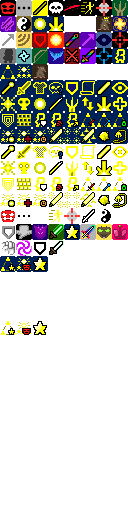
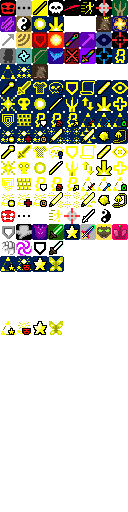
2.3: implemented ars retractandi, a spell that changes a talent into random talent of same aspect

Changed region(s): [[0.375, 0.625, 0.5, 0.6562], [0.375, 0.5, 0.5, 0.5312]]

diff --git a/core/src/main/java/com/zrp200/rkpd2/actors/hero/spells/ArsRetractandi.java b/core/src/main/java/com/zrp200/rkpd2/actors/hero/spells/ArsRetractandi.java
@@ -1,0 +1,233 @@
+package com.zrp200.rkpd2.actors.hero.spells;
+
+import com.zrp200.rkpd2.Assets;
+import com.zrp200.rkpd2.Dungeon;
+import com.zrp200.rkpd2.actors.hero.Hero;
+import com.zrp200.rkpd2.actors.hero.Talent;
+import com.zrp200.rkpd2.effects.Flare;
+import com.zrp200.rkpd2.effects.Speck;
+import com.zrp200.rkpd2.effects.Transmuting;
+import com.zrp200.rkpd2.items.artifacts.HolyTome;
+import com.zrp200.rkpd2.messages.Messages;
+import com.zrp200.rkpd2.scenes.GameScene;
+import com.zrp200.rkpd2.scenes.PixelScene;
+import com.zrp200.rkpd2.ui.HeroIcon;
+import com.zrp200.rkpd2.ui.RenderedTextBlock;
+import com.zrp200.rkpd2.ui.TalentButton;
+import com.zrp200.rkpd2.ui.TalentsPane;
+import com.zrp200.rkpd2.ui.Window;
+import com.zrp200.rkpd2.utils.GLog;
+import com.zrp200.rkpd2.windows.IconTitle;
+import com.zrp200.rkpd2.windows.WndOptions;
+import com.watabou.noosa.audio.Sample;
+import com.watabou.utils.Random;
+
+import java.util.ArrayList;
+import java.util.LinkedHashMap;
+import java.util.Map;
+import java.util.TreeMap;
+
+import static com.zrp200.rkpd2.actors.hero.Talent.*;
+
+public class ArsRetractandi extends ClericSpell {
+    public static final ArsRetractandi INSTANCE = new ArsRetractandi();
+
+    @Override
+    public int icon() {
+        return HeroIcon.ARS_RETRACTANDI;
+    }
+
+    @Override
+    public void tintIcon(HeroIcon icon) {
+        // todo make icon
+        if (SpellEmpower.isActive()) icon.tint(0, .33f);
+    }
+
+    @Override
+    public float chargeUse(Hero hero) {
+        int base = 5 - hero.pointsInTalent(Talent.ARS_RETRACTANDI);
+        if (SpellEmpower.isActive())
+            base *= 2;
+        return base;
+    }
+
+    @Override
+    public boolean canCast(Hero hero) {
+        return super.canCast(hero) && hero.shiftedPoints(Talent.ARS_RETRACTANDI) > (SpellEmpower.isActive() ? 0 : 1);
+    }
+
+    @Override
+    public void onCast(HolyTome tome, Hero hero) {
+        if (SpellEmpower.isActive()){
+            GameScene.show(new WndOptions(
+                    new HeroIcon(this),
+                    Messages.titleCase(name()),
+                    Messages.get(ArsRetractandi.class, "select_tier"),
+                    Messages.titleCase(Messages.get(TalentsPane.class, "tier", 1)),
+                    Messages.titleCase(Messages.get(TalentsPane.class, "tier", 2)),
+                    Messages.titleCase(Messages.get(TalentsPane.class, "tier", 3))
+            ){
+                @Override
+                protected void onSelect(int index) {
+                    super.onSelect(index);
+                    Aspect mostCommonAspect;
+
+                    if (index != -1){
+                        hero.spend(1f);
+                        hero.busy();
+                        hero.sprite.operate(hero.pos);
+                        TreeMap<Aspect, Integer> existingAspects = new TreeMap<>();
+                        LinkedHashMap<Talent, Integer> decidedTier = Dungeon.hero.talents.get(index);
+
+                        for (Map.Entry<Talent, Integer> talentData : decidedTier.entrySet()){
+                            existingAspects.put(talentData.getKey().aspect,
+                                    !existingAspects.containsKey(talentData.getKey().aspect) ?
+                                            1 : existingAspects.get(talentData.getKey().aspect) + 1);
+                        }
+                        mostCommonAspect = existingAspects.lastEntry().getKey();
+                        LinkedHashMap<Talent, Integer> newTier = new LinkedHashMap<>();
+                        for (Map.Entry<Talent, Integer> talentData : decidedTier.entrySet()){
+                            Talent newTalent;
+                            Talent oldTalent = talentData.getKey();
+                            while (true){
+                                Talent testTalent = Random.element(Talent.values());
+                                if (decidedTier.containsKey(testTalent))
+                                    continue;
+                                if (newTier.containsKey(testTalent))
+                                    continue;
+                                if (testTalent.aspect != mostCommonAspect)
+                                    continue;
+                                if (testTalent.maxPoints() == 3 && Random.Int(3) != 0)
+                                    continue;
+                                if (testTalent.maxPoints() == 4 && Random.Int(5) != 0)
+                                    continue;
+                                newTalent = testTalent;
+                                break;
+                            }
+                            newTier.put(newTalent, Math.min(newTalent.maxPoints(), talentData.getValue()));
+                            if (!hero.metamorphedTalents.containsValue(oldTalent)){
+                                hero.metamorphedTalents.put(oldTalent, newTalent);
+
+                                //if what we're replacing is already a value, we need to simplify the data structure
+                            } else {
+                                //a->b->a, we can just remove the entry entirely
+                                if (hero.metamorphedTalents.get(newTalent) == oldTalent){
+                                    hero.metamorphedTalents.remove(newTalent);
+
+                                    //a->b->c, we need to simplify to a->c
+                                } else {
+                                    for (Talent t2 : hero.metamorphedTalents.keySet()){
+                                        if (hero.metamorphedTalents.get(t2) == oldTalent){
+                                            hero.metamorphedTalents.put(t2, newTalent);
+                                        }
+                                    }
+                                }
+                            }
+                        }
+                        hero.talents.set(index, newTier);
+
+                        onSpellCast(tome, hero);
+
+                        Sample.INSTANCE.play( Assets.Sounds.READ );
+                        for (int i = 0; i < Dungeon.hero.talents.get(index).size(); i++){
+                            Sample.INSTANCE.playDelayed(Assets.Sounds.LEVELUP, 0.1f + i * 0.1f, 0.7f, 1.2f);
+                        }
+                        new Flare( 6, 32 ).color(0xFFFF00, true).show( hero.sprite, 2f );
+                        hero.sprite.emitter().start(Speck.factory(Speck.CHANGE), 0.1f, 25);
+                        GLog.p(Messages.get(ArsRetractandi.class, "transmutation_complete", mostCommonAspect));
+                    }
+                }
+            });
+        } else {
+            GameScene.show(new WndChoose());
+        }
+    }
+
+    public static void onChange( Talent oldTalent, Talent newTalent ){
+        Dungeon.hero.sprite.emitter().start(Speck.factory(Speck.CHANGE), 0.2f, 10);
+        Transmuting.show(Dungeon.hero, oldTalent, newTalent);
+
+        if (Dungeon.hero.hasTalent(newTalent)) {
+            Talent.onTalentUpgraded(Dungeon.hero, newTalent);
+        }
+
+        Dungeon.hero.spend(1f);
+        Dungeon.hero.busy();
+        Dungeon.hero.sprite.operate(Dungeon.hero.pos);
+
+        INSTANCE.onSpellCast(Dungeon.hero.belongings.getItem(HolyTome.class), Dungeon.hero);
+    }
+
+    public static class WndChoose extends Window {
+
+        public static WndChoose INSTANCE;
+
+        TalentsPane pane;
+
+        public WndChoose(){
+            super();
+
+            INSTANCE = this;
+
+            float top = 0;
+
+            IconTitle title = new IconTitle(new HeroIcon(ArsRetractandi.INSTANCE), Messages.titleCase(Messages.get(ArsRetractandi.class, "name")));
+            title.color( TITLE_COLOR );
+            title.setRect(0, 0, 120, 0);
+            add(title);
+
+            top = title.bottom() + 2;
+
+            RenderedTextBlock text = PixelScene.renderTextBlock(Messages.get(ArsRetractandi.class, "choose_desc"), 6);
+            text.maxWidth(120);
+            text.setPos(0, top);
+            add(text);
+
+            top = text.bottom() + 2;
+
+            ArrayList<LinkedHashMap<Talent, Integer>> talents = new ArrayList<>();
+            initClassTalents(Dungeon.hero.heroClass, talents, Dungeon.hero.metamorphedTalents);
+
+            for (LinkedHashMap<Talent, Integer> tier : talents){
+                for (Talent talent : tier.keySet()){
+                    tier.put(talent, Dungeon.hero.pointsInTalent(talent));
+                }
+            }
+
+            for (int i = 0; i < talents.size(); i++){
+                LinkedHashMap<Talent, Integer> heroTalents = Dungeon.hero.talents.get(i);
+                LinkedHashMap<Talent, Integer> lolTalents = talents.get(i);
+                for (Talent talent : heroTalents.keySet()){
+                    if (!lolTalents.containsKey(talent)){
+                        if ((i == 3 &&
+                                !(talent == HEROIC_RATINESS || talent == HEROIC_ARCHERY ||
+                                        talent == HEROIC_ENDURANCE || talent == HEROIC_STAMINA || talent == HEROIC_WIZARDRY))){
+                            continue;
+                        }
+                        if (i == 2) continue;
+                        lolTalents.put(talent, Dungeon.hero.pointsInTalent(talent));
+                    }
+                }
+            }
+
+            pane = new TalentsPane(TalentButton.Mode.ASPECT_REROLL, talents);
+            add(pane);
+            pane.setPos(0, top);
+            pane.setSize(120, pane.content().height());
+            resize((int)pane.width(), (int)pane.bottom());
+            pane.setPos(0, top);
+        }
+
+        @Override
+        public void hide() {
+            super.hide();
+            INSTANCE = null;
+        }
+
+        @Override
+        public void offset(int xOffset, int yOffset) {
+            super.offset(xOffset, yOffset);
+            pane.setPos(pane.left(), pane.top()); //triggers layout
+        }
+    }
+}

diff --git a/core/src/main/java/com/zrp200/rkpd2/ui/TalentButton.java b/core/src/main/java/com/zrp200/rkpd2/ui/TalentButton.java
@@ -27,6 +27,7 @@ import com.zrp200.rkpd2.ShatteredPixelDungeon;
 import com.zrp200.rkpd2.actors.hero.HeroSubClass;
 import com.zrp200.rkpd2.actors.hero.Talent;
 import com.zrp200.rkpd2.actors.hero.abilities.cleric.Trinity;
+import com.zrp200.rkpd2.actors.hero.spells.ArsRetractandi;
 import com.zrp200.rkpd2.effects.Speck;
 import com.zrp200.rkpd2.effects.Transmuting;
 import com.zrp200.rkpd2.items.scrolls.exotic.ScrollOfMetamorphosis;
@@ -40,6 +41,7 @@ import com.watabou.noosa.PointerArea;
 import com.watabou.noosa.audio.Sample;
 import com.watabou.noosa.particles.Emitter;
 import com.watabou.utils.DeviceCompat;
+import com.watabou.utils.Random;
 
 import java.util.LinkedHashMap;
 
@@ -64,7 +66,8 @@ public class TalentButton extends Button {
 		UPGRADE,
 		METAMORPH_CHOOSE,
 		METAMORPH_REPLACE,
-		METAFORM_SELECT
+		METAFORM_SELECT,
+        ASPECT_REROLL
 	}
 
 	public TalentButton(int tier, Talent talent, int points, Mode mode){
@@ -248,7 +251,73 @@ public class TalentButton extends Button {
 					Sample.INSTANCE.play(Assets.Sounds.TELEPORT);
 				}
 			});
-		} else {
+		} else if (mode == Mode.ASPECT_REROLL && Dungeon.hero != null && Dungeon.hero.isAlive()) {
+            toAdd = new WndInfoTalent(talent, pointsInTalent, new WndInfoTalent.TalentButtonCallback() {
+
+                @Override
+                public String prompt() {
+                    return Messages.titleCase(Messages.get(ArsRetractandi.class, "metamorphose_talent"));
+                }
+
+                @Override
+                public void call() {
+                    if (ArsRetractandi.WndChoose.INSTANCE != null){
+                        ArsRetractandi.WndChoose.INSTANCE.hide();
+                    }
+                    Talent newTalent;
+                    while (true){
+                        Talent testTalent = Random.element(Talent.values());
+                        if (Dungeon.hero.talents.get(tier-1).containsKey(testTalent))
+                            continue;
+                        if (testTalent.aspect != talent.aspect)
+                            continue;
+                        if (testTalent.maxPoints() == 3 && Random.Int(3) != 0)
+                            continue;
+                        if (testTalent.maxPoints() == 4 && Random.Int(5) != 0)
+                            continue;
+                        newTalent = testTalent;
+                        break;
+                    }
+
+                    for (LinkedHashMap<Talent, Integer> tier : Dungeon.hero.talents){
+                        if (tier.containsKey(talent)){
+                            LinkedHashMap<Talent, Integer> newTier = new LinkedHashMap<>();
+                            for (Talent t : tier.keySet()){
+                                if (t == talent){
+                                    newTier.put(newTalent, tier.get(talent));
+
+                                    if (!Dungeon.hero.metamorphedTalents.containsValue(talent)){
+                                        Dungeon.hero.metamorphedTalents.put(talent, newTalent);
+
+                                        //if what we're replacing is already a value, we need to simplify the data structure
+                                    } else {
+                                        //a->b->a, we can just remove the entry entirely
+                                        if (Dungeon.hero.metamorphedTalents.get(talent) == talent){
+                                            Dungeon.hero.metamorphedTalents.remove(talent);
+
+                                            //a->b->c, we need to simplify to a->c
+                                        } else {
+                                            for (Talent t2 : Dungeon.hero.metamorphedTalents.keySet()){
+                                                if (Dungeon.hero.metamorphedTalents.get(t2) == talent){
+                                                    Dungeon.hero.metamorphedTalents.put(t2, talent);
+                                                }
+                                            }
+                                        }
+                                    }
+
+                                } else {
+                                    newTier.put(t, tier.get(t));
+                                }
+                            }
+                            Dungeon.hero.talents.set(TalentButton.this.tier-1, newTier);
+                            break;
+                        }
+                    }
+
+                    ArsRetractandi.onChange(talent, newTalent);
+                }
+            });
+        } else {
 			toAdd = new WndInfoTalent(talent, pointsInTalent, null);
 		}
 

diff --git a/core/src/main/java/com/zrp200/rkpd2/actors/hero/Talent.java b/core/src/main/java/com/zrp200/rkpd2/actors/hero/Talent.java
@@ -264,7 +264,9 @@ public enum Talent {
 	HOLY_LANCE(171, 3, Aspect.OFFENSE), HALLOWED_GROUND(172, 3, Aspect.DEFENSE), MNEMONIC_PRAYER(173, 3, Aspect.MULTIFORM), DIVINE_ADVENT(188, 3, Aspect.MULTIFORM), ENDURING_LIGHT(189, 3, Aspect.OFFENSE),
 	//Paladin T3
 	LAY_ON_HANDS(174, 3, Aspect.DEFENSE), AURA_OF_PROTECTION(175, 3, Aspect.DEFENSE), WALL_OF_LIGHT(176, 3, Aspect.DEFENSE), LIMIT_BREAK(190, 3, Aspect.MULTIFORM), TRIAGE(191, 3, Aspect.UTILITY),
-	//Ascended Form T4
+	//Cenobite T3
+    ARS_RETRACTANDI(imageAt(8, 13), 3),
+    //Ascended Form T4
 	DIVINE_INTERVENTION(177, 4, Aspect.DEFENSE), JUDGEMENT(178, 4, Aspect.OFFENSE), FLASH(179, 4, Aspect.UTILITY), DIVINE_PROFICIENCY(imageAt(13, 13), 4),
 	//Trinity T4
 	BODY_FORM(180, 4, Aspect.MULTIFORM), MIND_FORM(181, 4, Aspect.MULTIFORM), SPIRIT_FORM(182, 4, Aspect.MULTIFORM), META_FORM(imageAt(14, 13), 4, Aspect.MULTIFORM),
@@ -1967,7 +1969,10 @@ public enum Talent {
 			case PALADIN:
 				Collections.addAll(tierTalents, LAY_ON_HANDS, AURA_OF_PROTECTION, WALL_OF_LIGHT, LIMIT_BREAK, TRIAGE);
 				break;
-			case KING: // this should be *lovely*
+            case CENOBITE:
+                Collections.addAll(tierTalents, ARS_RETRACTANDI);
+                break;
+            case KING: // this should be *lovely*
 				Collections.addAll(tierTalents, RK_BERSERKER, RK_BATTLEMAGE, RK_ASSASSIN, RK_SNIPER, RK_GLADIATOR, RK_WARLOCK, RK_FREERUNNER, RK_WARDEN); break;
 			case RK_CHAMPION:
 				Collections.addAll(tierTalents, RK_FIRE, RK_PROJECT, RK_ANTIMAGIC, RK_GIANT, RK_BLESSED, RK_CURSED, RK_SPLINT, RK_PALADIN); break;

diff --git a/core/src/main/java/com/zrp200/rkpd2/actors/hero/spells/ClericSpell.java b/core/src/main/java/com/zrp200/rkpd2/actors/hero/spells/ClericSpell.java
@@ -236,7 +236,8 @@ public abstract class ClericSpell {
 				LayOnHands.INSTANCE,
 				AuraOfProtection.INSTANCE,
 				WallOfLight.INSTANCE,
-				SpellEmpower.LimitBreak.INSTANCE
+				SpellEmpower.LimitBreak.INSTANCE,
+                ArsRetractandi.INSTANCE,
 			}){
 				if (spell.isVisible(cleric)) spells.add(spell);
 			}
@@ -308,6 +309,7 @@ public abstract class ClericSpell {
 		spells.add(HallowedGround.INSTANCE);
 		spells.add(MnemonicPrayer.INSTANCE);
 		spells.add(SpellEmpower.DivineAdvent.INSTANCE);
+        spells.add(ArsRetractandi.INSTANCE);
 		spells.add(DivineIntervention.INSTANCE);
 		spells.add(Judgement.INSTANCE);
 		spells.add(Flash.INSTANCE);

diff --git a/core/src/main/java/com/zrp200/rkpd2/ui/HeroIcon.java b/core/src/main/java/com/zrp200/rkpd2/ui/HeroIcon.java
@@ -111,7 +111,8 @@ public class HeroIcon extends Image {
 			RADIANT_GRAPPLER= 71,
 			META_FORM       = imageAt(0, 16),
 			ENRAGE          = imageAt(1, 16),
-            MUTARE_ARTEM    = imageAt(2, 16);
+            MUTARE_ARTEM    = imageAt(2, 16),
+            ARS_RETRACTANDI = imageAt(3, 16);
 
 	//all cleric spells have a separate icon with no background for the action indicator
 	public static final int SPELL_ACTION_OFFSET      = 32;
